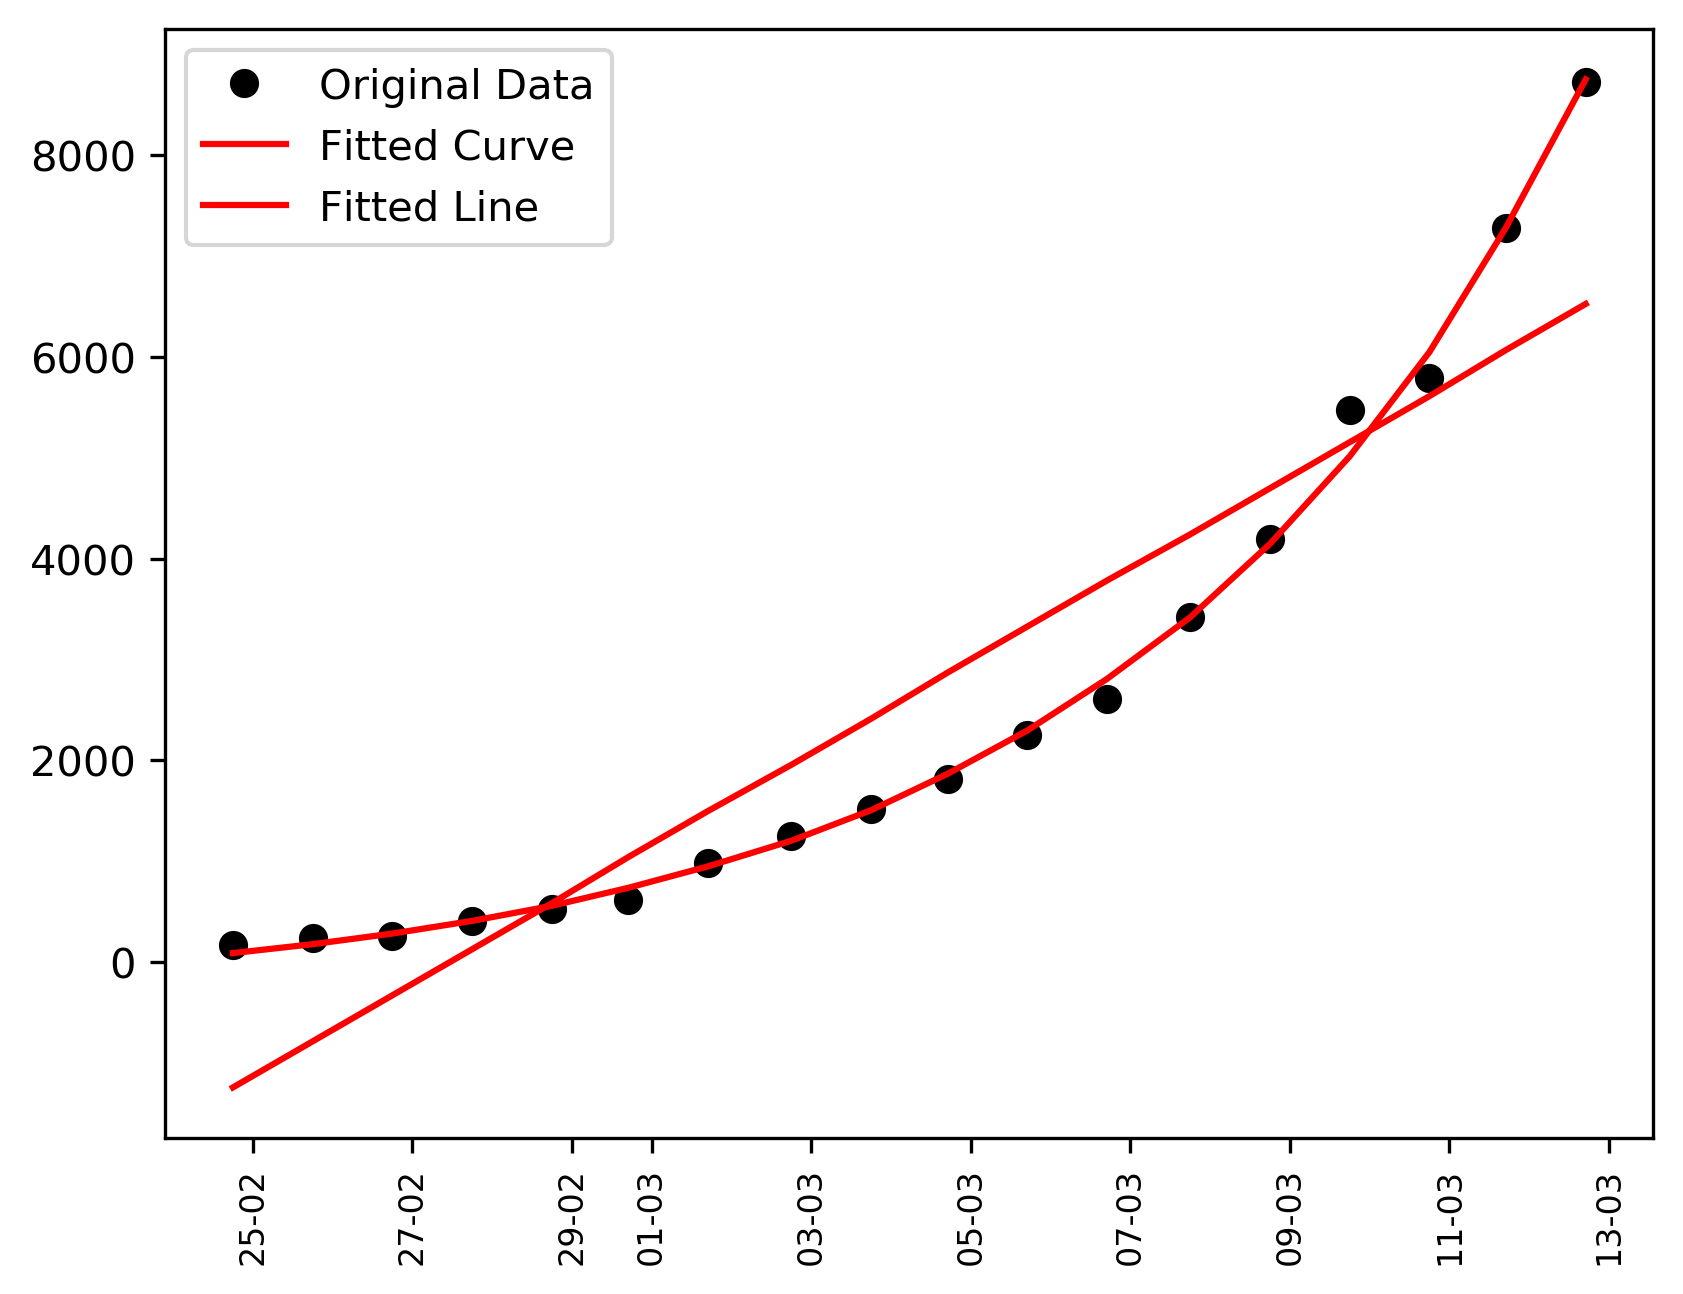
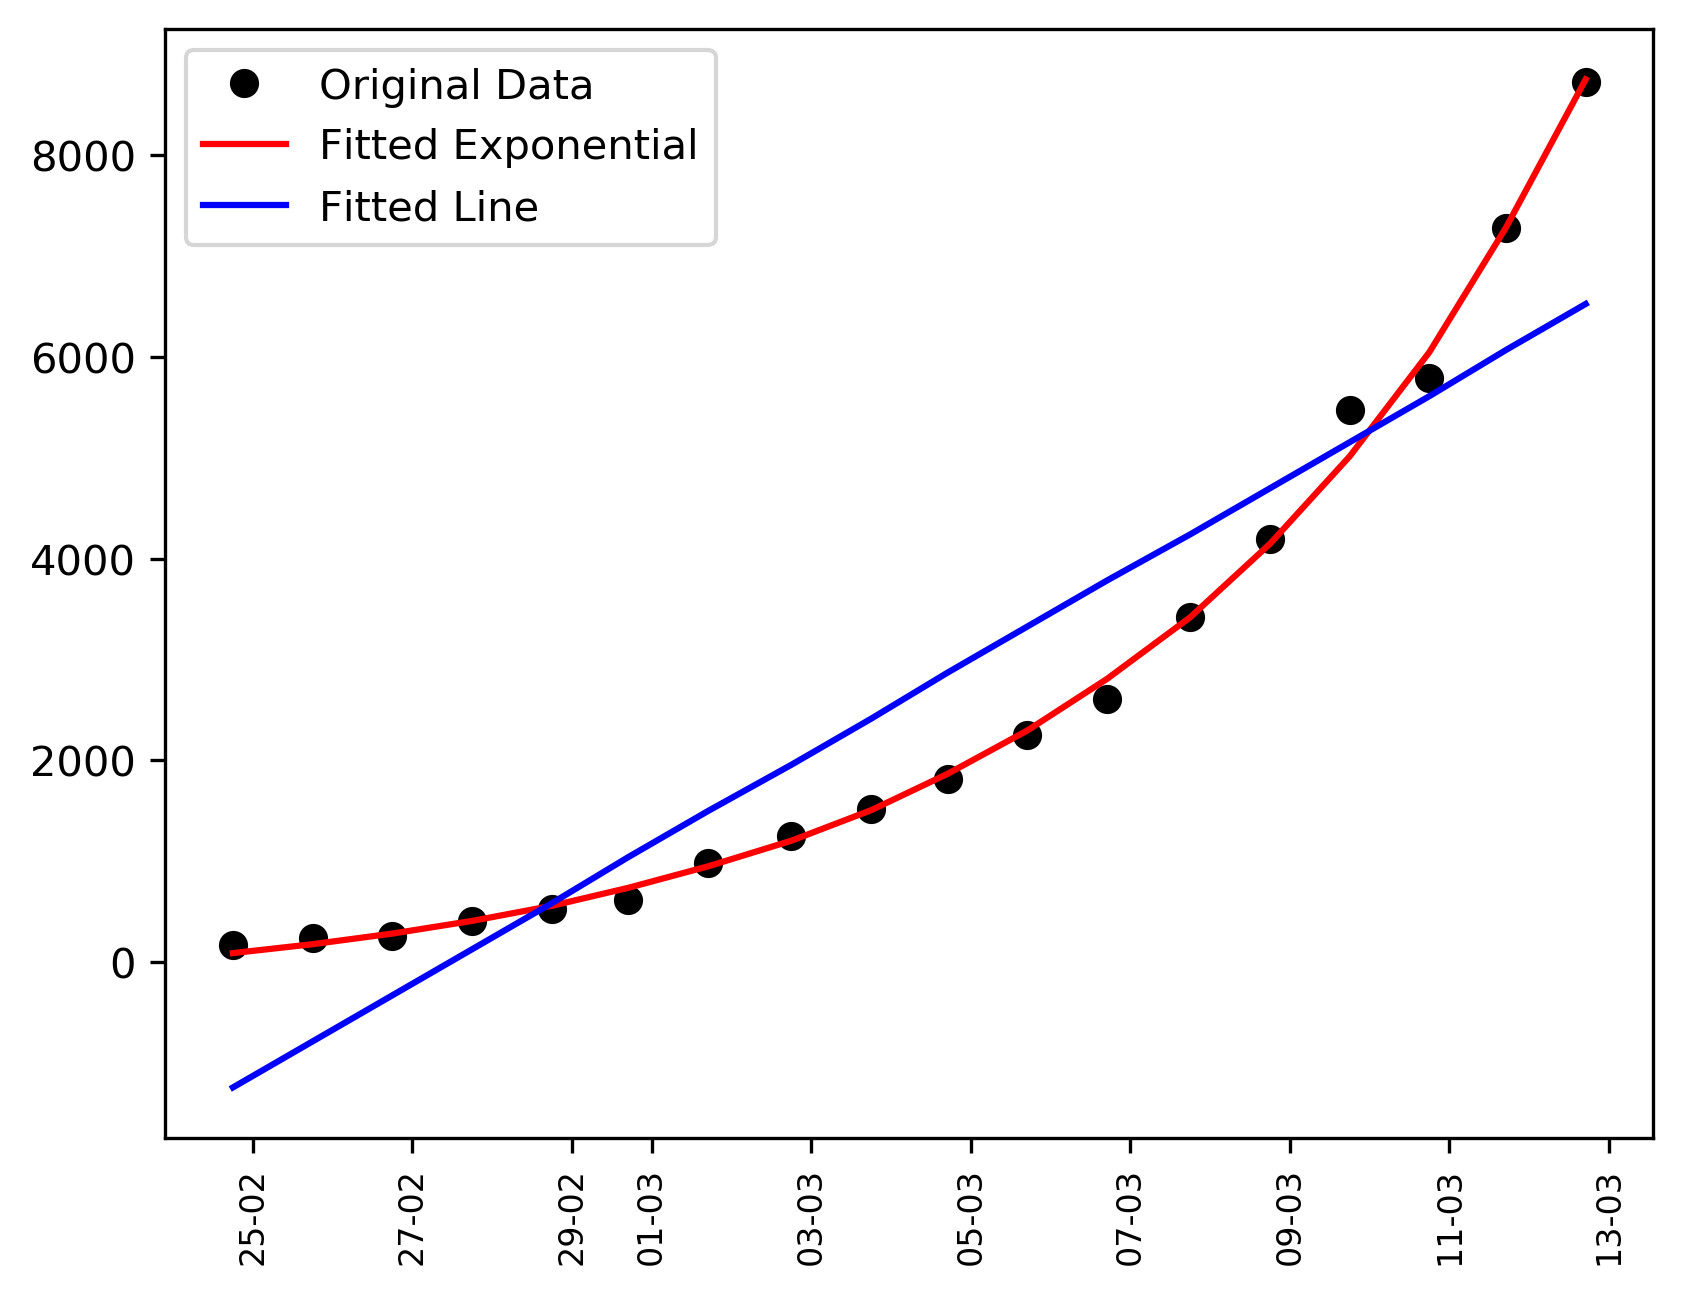
Minor bug fixes

diff --git a/prevision.py b/prevision.py
@@ -21,8 +21,8 @@ def func2(x, a, b):
 def time_plot(time, data): 
     fig, ax = plt.subplots()
     plt.plot(time, data, 'ko', label="Original Data")
-    plt.plot(time, func(x, *popt), 'r-', label="Fitted Curve")
-    plt.plot(time, func2(x, *popt2), 'r', label="Fitted Line")
+    plt.plot(time, func(x, *popt), 'r-', label="Fitted Exponential")
+    plt.plot(time, func2(x, *popt2), 'r', color= 'blue', label="Fitted Line")
     hfmt = mdates.DateFormatter('%d-%m')
     ax.xaxis.set_major_formatter(hfmt)
     plt.xticks(rotation = 90, fontsize=8)
